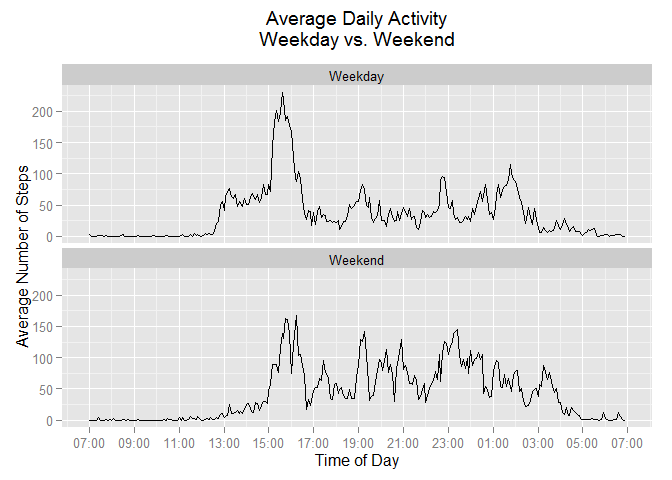
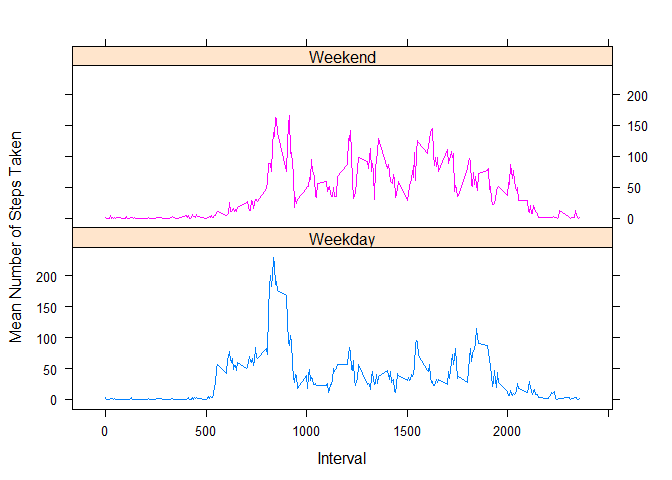
Fixed last graphs comparing weekday and weekend

diff --git a/PA1_template.html b/PA1_template.html
@@ -83,7 +83,7 @@ str(activityData)</code></pre>
 ##  $ steps   : int  NA NA NA NA NA NA NA NA NA NA ...
 ##  $ date    : Date, format: &quot;2012-10-01&quot; &quot;2012-10-01&quot; ...
 ##  $ interval: int  0 5 10 15 20 25 30 35 40 45 ...</code></pre>
-<p>The variables in this dataset are:<br /><em>-steps</em>: Number of steps taken in a 5-minute interval. Missing values are coded as <strong>‘NA’</strong>.<br /><em>-date</em>: The date on which the measurement was taken in YYYY-MM-DD format. Note the conversion to Date format after reading in the data.<br /><em>-interval</em>: An identifier for the 5-minute interval in which the measurement was taken. For example, 1435 means the measurement was taken at 14:35, or 2:35 pm.</p>
+<p>The variables in this dataset are:<br /><strong>-steps</strong>: Number of steps taken in a 5-minute interval. Missing values are coded as <strong>‘NA’</strong>.<br /><strong>-date</strong>: The date on which the measurement was taken in YYYY-MM-DD format. Note the conversion to Date format after reading in the data.<br /><strong>-interval</strong>: An identifier for the 5-minute interval in which the measurement was taken. For example, 1435 means the measurement was taken at 14:35, or 2:35 pm.</p>
 </div>
 <div id="what-is-mean-total-number-of-steps-taken-per-day" class="section level2">
 <h2>What is mean total number of steps taken per day?</h2>
@@ -196,6 +196,8 @@ stepsPerInterval</code></pre>
 <div id="which-5-minute-interval-on-average-across-all-the-days-in-the-dataset-contains-the-maximum-number-of-steps" class="section level3">
 <h3>2. Which 5-minute interval, on average across all the days in the dataset, contains the maximum # number of steps?</h3>
 <p>The interval with the highest average number of steps is 0835, or 8:35 am. The average number of steps in this 5-minute interval is just over 206 steps. This seems logical since most people are getting ready for and going to work at this time of day.</p>
+<pre class="r"><code>maxDate &lt;- arrange(stepsPerInterval, desc(AvgIntSteps))[1,] 
+maxDate</code></pre>
 <pre><code>## Source: local data frame [1 x 2]
 ## 
 ##   interval AvgIntSteps
@@ -230,7 +232,7 @@ head(activityImputed)</code></pre>
 </div>
 <div id="make-a-histogram-of-the-total-number-of-steps-taken-each-day.-what-is-the-impact-of-imputing-missing-data-on-the-estimates-of-total-daily-number-of-steps" class="section level3">
 <h3>4. Make a histogram of the total number of steps taken each day. What is the impact of imputing missing data on the estimates of total daily number of steps?</h3>
-<p>Imputing the <strong>NA</strong> values didn’t change the overall distribution. In fact, the only thing that changed was the frequency in which the mean value occurred. This makes sense, since we are now including more values that are, in fact, the mean value we used to replace the <strong>NA</strong>’s.</p>
+<p>As with the original data, we’ll sum up the steps by date in the new dataset with imputed <strong>NA</strong> values.</p>
 <pre class="r"><code>stepsPerDayImputed &lt;- group_by(activityImputed, date)%&gt;%
         summarize(TotalSteps = sum(steps))
 stepsPerDayImputed</code></pre>
@@ -255,7 +257,7 @@ stepsPerDayImputed</code></pre>
      ylab = &quot;Frequency (number of days)&quot;,
      breaks = 20,
      col = &quot;grey&quot;)</code></pre>
[2 lines of base64/hex data omitted]
 </div>
 </div>
 <div id="are-there-differences-in-activity-patterns-between-weekdays-and-weekends" class="section level2">
@@ -304,8 +306,13 @@ str(activityPattern)</code></pre>
 ## 5       10  Weekday 0.17316562
 ## 6       10  Weekend 0.01650943</code></pre>
 <p>From the graphs below, it’s clear that activity is different on weekends than it is on weekdays. Weekend activity is generally higher throughout the day, whereas is drops during the working hours of weekday. It is also noteworthy that weekend morning activity generally starts a bit later in the morning hours.</p>
-<p><strong>NOTE</strong> Figuring out why x-axis is not sorted properly. Will update when I have it figured out.</p>
[1 lines of base64/hex data omitted]
+<pre class="r"><code>library(lattice)
+xyplot(MeanSteps ~ interval | DayClass, data = activityPattern, type = &quot;l&quot;, layout = c(1,2),
+        groups = DayClass,
+        xlab = &quot;Interval&quot;,
+        ylab = &quot;Mean Number of Steps Taken&quot;,
+        ggtitle = &quot;Average Number of Steps Taken\nWeekend vs. Weekday&quot;)</code></pre>
[1 lines of base64/hex data omitted]
 </div>
 </div>
 </div>

diff --git a/PA1_template.md b/PA1_template.md
@@ -2,7 +2,7 @@
 # Introduction
 It is now possible to collect a large amount of data about personal movement using activity monitoring devices such as a Fitbit, Nike Fuelband, or Jawbone Up. These type of devices are part of the “quantified self” movement - a group of enthusiasts who take measurements about themselves regularly to improve their health, to find patterns in their behavior, or because they are tech geeks. But these data remain under-utilized both because the raw data are hard to obtain and there is a lack of statistical methods and software for processing and interpreting the data.
 
-This assignment makes use of data from a personal activity monitoring device. This device collects data at 5 minute intervals through out the day. The data consists of two months of data from an anonymous individual collected during the months of October and November, 2012 and include the number of steps taken in 5 minute intervals each day.
+This assignment makes use of data from a personal activity monitoring device. This device collects data at 5 minute intervals through out the day. The data consists of two months of data from an anonymous individual collected during the months of October and November, 2012 and include the number of steps taken in 5 minute intervals each day.  
 
 #Analysis
 
@@ -27,9 +27,9 @@ str(activityData)
 ```
 
 The variables in this dataset are:  
-*-steps*:  Number of steps taken in a 5-minute interval.  Missing values are coded as **'NA'**.  
-*-date*:  The date on which the measurement was taken in YYYY-MM-DD format. Note the conversion to Date format after reading in the data.  
-*-interval*: An identifier for the 5-minute interval in which the measurement was taken. For example, 1435 means the measurement was taken at 14:35, or 2:35 pm.  
+**-steps**:  Number of steps taken in a 5-minute interval.  Missing values are coded as **'NA'**.  
+**-date**:  The date on which the measurement was taken in YYYY-MM-DD format. Note the conversion to Date format after reading in the data.  
+**-interval**: An identifier for the 5-minute interval in which the measurement was taken. For example, 1435 means the measurement was taken at 14:35, or 2:35 pm.  
 
 
 ## What is mean total number of steps taken per day?
@@ -190,6 +190,11 @@ plot(strptime(sprintf("%04d", stepsPerInterval$interval), format = "%H%M"),
 The interval with the highest average number of steps is 0835, or 8:35 am.  The average number of steps in this 5-minute interval is just over 206 steps.  This seems logical since most people are getting ready for and going to work at this time of day. 
 
 
+```r
+maxDate <- arrange(stepsPerInterval, desc(AvgIntSteps))[1,] 
+maxDate
+```
+
 ```
 ## Source: local data frame [1 x 2]
 ## 
@@ -197,7 +202,6 @@ The interval with the highest average number of steps is 0835, or 8:35 am.  The 
 ##      (int)       (dbl)
 ## 1      835    206.1698
 ```
-
 
 ## Imputing missing values
 ### 1. Calculate and report the total number of missing values  
@@ -213,7 +217,6 @@ colSums(is.na(activityData))
 There are 2304 rows with 'NA' in steps column.  Other columns have no **NA**'s.
 
 #### 2./3. Devise a new strategy for filling in all of the missing values in the dataset.  Create a new dataset, 
-
 We'll replace the **'NA'** values with the mean for that day, using the stepsPerInterval$AvgIntSteps value.  We'll test each value of "steps", and if it is **NA** then we will replace it with the AvgIntSteps calcuated above.  If it is not **NA**, then we will just use the existing value of "steps".
 
 
@@ -236,7 +239,7 @@ head(activityImputed)
 ```
 
 ### 4. Make a histogram of the total number of steps taken each day. What is the impact of imputing missing data on the estimates of total daily number of steps?  
-Imputing the **NA** values didn't change the overall distribution.  In fact, the only thing that changed was the frequency in which the mean value occurred.  This makes sense, since we are now including more values that are, in fact, the mean value we used to replace the **NA**'s.
+As with the original data, we'll sum up the steps by date in the new dataset with imputed **NA** values.
 
 
 ```r
@@ -273,6 +276,7 @@ hist(stepsPerDayImputed$TotalSteps,
 ```
 
 ![](PA1_template_files/figure-html/unnamed-chunk-12-1.png) 
+Imputing the **NA** values didn't change the overall distribution.  In fact, the only thing that changed was the frequency in which the mean value occurred.  This makes sense, since we are now including more values that are, in fact, the mean value we used to replace the **NA**'s.  
 
 ## Are there differences in activity patterns between weekdays and weekends?
 
@@ -346,9 +350,16 @@ head(activityPattern)
 
 From the graphs below, it's clear that activity is different on weekends than it is on weekdays.  Weekend activity is generally higher throughout the day, whereas is drops during the working hours of weekday.  It is also noteworthy that weekend morning activity generally starts a bit later in the morning hours.  
 
-**NOTE** Figuring out why x-axis is not sorted properly.  Will update when I have it figured out.
+
+```r
+library(lattice)
+xyplot(MeanSteps ~ interval | DayClass, data = activityPattern, type = "l", layout = c(1,2),
+        groups = DayClass,
+        xlab = "Interval",
+        ylab = "Mean Number of Steps Taken",
+        ggtitle = "Average Number of Steps Taken\nWeekend vs. Weekday")
+```
 
 ![](PA1_template_files/figure-html/unnamed-chunk-15-1.png) 
-
 
 
